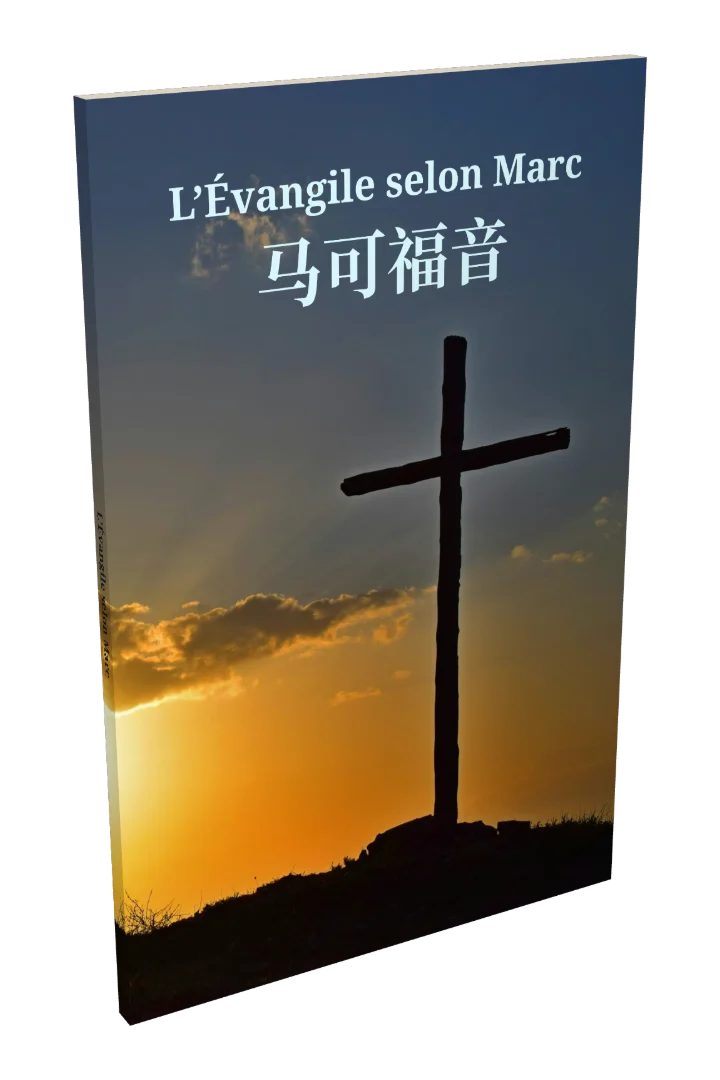
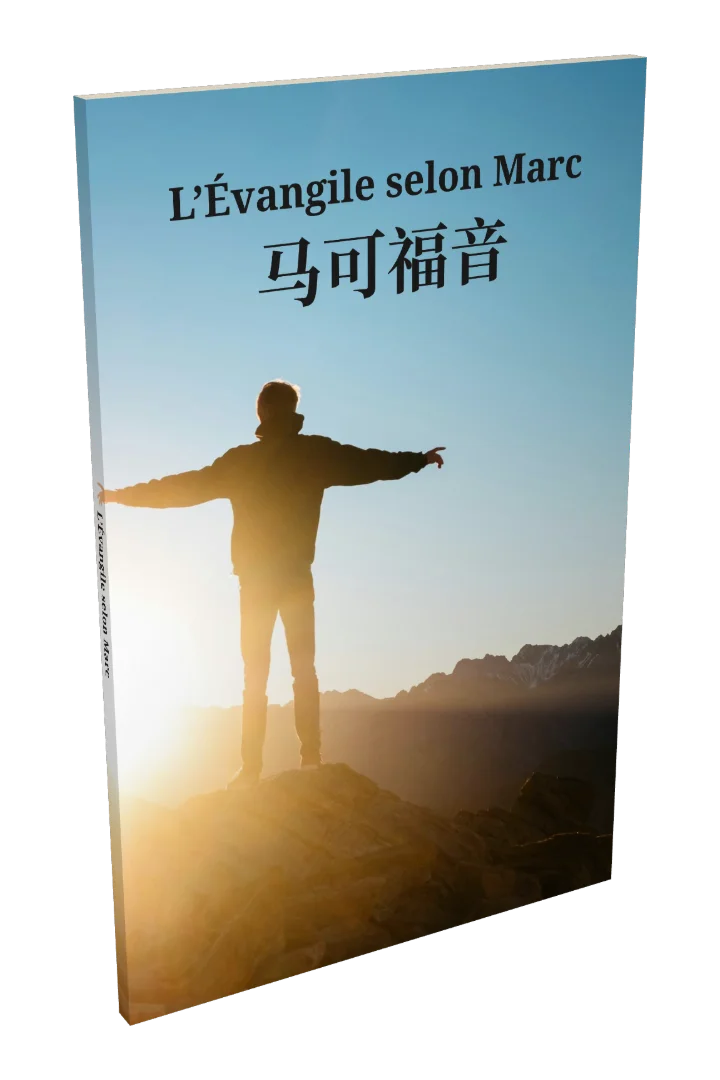
give the Mark's Gospel example the awe.jpg background and auto title colours

diff --git a/app/src/services/example_designs.ts b/app/src/services/example_designs.ts
@@ -53,10 +53,10 @@ export const EXAMPLE_DESIGNS:ExampleDesign[] = [
         id: 'bilingual', pages: 86, books: ['mrk'], trans: ['cmn_bibs'],
         cover: 'photo',
         cover_overrides: {
-            title1_color: '#dcfaff', title_margin_top: 1,
-            subtitle_size: 3.03, subtitle_color: '#dbfaff', subtitle_margin_top: 1,
+            title_margin_top: 1, subtitle_size: 3.03, subtitle_margin_top: 1,
             blurb_bg_color: '#dbfaff',
         },
+        cover_bg_image: 'awe.jpg',
         // Chinese follows and fits a verse in far less space than most languages, so it's the
         // larger of the two, keeping the aligned columns roughly the same length
         diff: {
